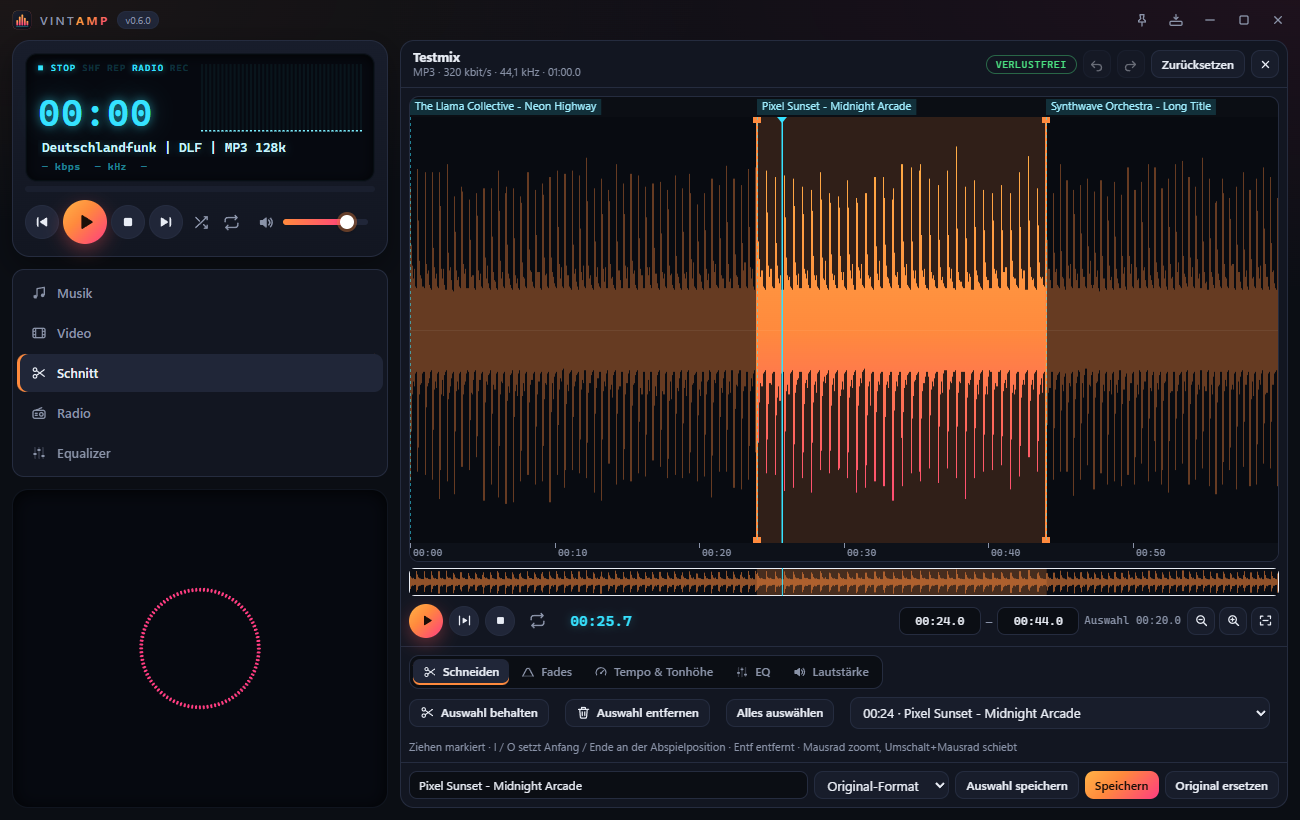
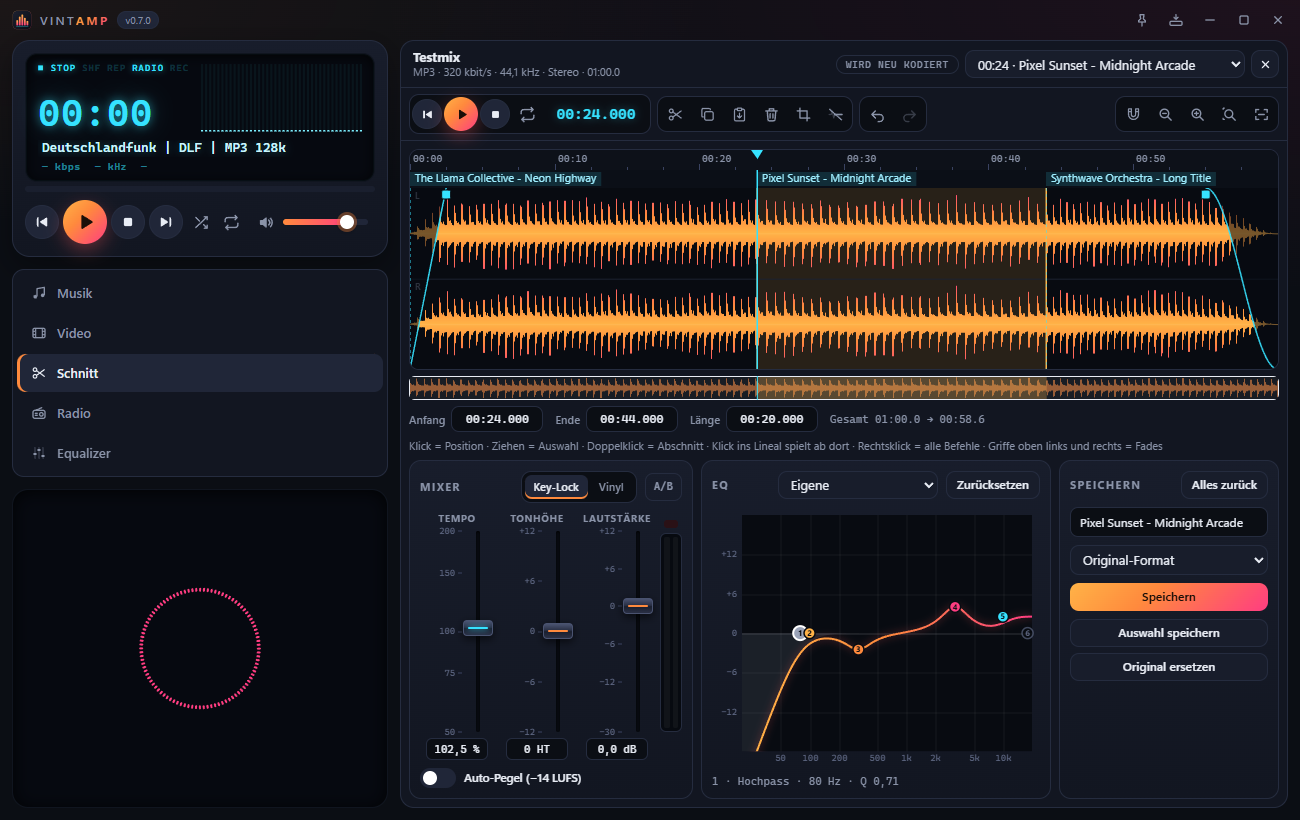
Docs: Cutter als Audio-Editor mit Mixer und grafischem EQ (v0.7.0)

Changed region(s): [[0.3077, 0.061, 0.9846, 0.9756]]

diff --git a/README.md b/README.md
@@ -38,9 +38,9 @@ Mini-Modus – im modernen dunklen Design. Auf Deutsch und Englisch.
 
 <p><img src="docs/video-vollbild.png" alt="Vintamp – Video im Vollbild mit eingeblendeter Bedienleiste" width="790"></p>
 
-**Audio-Cutter** – Rechtsklick auf eine Audiodatei → „Schneiden …“: Wellenform, Titel aus Radio-Aufnahmen als Marken, verlustfrei speichern:
+**Audio-Cutter** – Rechtsklick auf eine Audiodatei → „Schneiden …“: bedient sich wie ein Audio-Editor, mit Mixer und grafischem EQ:
 
-<p><img src="docs/cutter.png" alt="Vintamp – Audio-Cutter mit Wellenform, Auswahl und Titelmarken" width="790"></p>
+<p><img src="docs/cutter.png" alt="Vintamp – Audio-Cutter mit Stereo-Wellenform, Fades, Mixer und grafischem EQ" width="790"></p>
 
 **MIDI mit Spur-Ansicht** – jede Spur mit Instrument und Noten, einzeln stumm oder solo:
 
@@ -103,12 +103,19 @@ Mini-Modus – im modernen dunklen Design. Auf Deutsch und Englisch.
 
 **Audio-Cutter**
 - Rechtsklick auf eine Audiodatei (Musikliste oder Aufnahme) → „Schneiden …“ öffnet den Reiter „Schnitt“
-- Große Wellenform mit Zoom und Übersicht; Bereich mit der Maus markieren, Anfang und Ende auch auf die
-  Zehntelsekunde eintippen (oder I / O an der Abspielposition)
-- Auswahl behalten (trimmen) oder herausschneiden – beliebig oft, mit Rückgängig und Wiederholen
-- Ein- und Ausblenden, Tempo 0,5–2× ohne Mickymaus-Stimme, Tonhöhe ±12 Halbtöne ohne Tempoänderung,
-  10-Band-EQ mit Voreinstellungen, Lautstärke und „alles gleich laut“ (−14 LUFS)
-- Alles vorhören, die Auswahl auch in Schleife
+- Bedienung wie in einem Audio-Editor: Klick setzt die Position, Ziehen wählt aus, Doppelklick wählt den
+  Abschnitt, Klick ins Lineal spielt ab dort; Auswahl rastet an Marken und Schnittstellen ein (Magnet)
+- Ausschneiden, Kopieren, Einfügen, Löschen, Zuschneiden, Stille – mit Strg+X/C/V, Entf, Strg+T, Strg+L
+  oder per Rechtsklick; beliebig oft rückgängig
+- Stereo-Wellenform mit Zoom, Übersicht und Lineal; Anfang, Ende und Länge auf die Millisekunde eintippen
+- **Fades mit der Maus:** Griffe oben links und rechts ziehen, Kurvenform (linear, logarithmisch,
+  exponentiell, S-Kurve) per Rechtsklick
+- **Mixer:** Fader für Tempo, Tonhöhe und Lautstärke mit Pegelanzeige. „Key-Lock“ ändert Tempo und Tonhöhe
+  getrennt mit Rubber Band R3 (Studio-Algorithmus), „Vinyl“ koppelt beide wie ein Plattenspieler –
+  ganz ohne Artefakte. A/B-Taste zum Vergleich mit dem Original, Auto-Pegel (−14 LUFS)
+- **Grafischer EQ:** parametrisch mit Hoch- und Tiefpass, Kuhschwänzen und Glocken – Punkte ziehen,
+  Mausrad für die Güte; Voreinstellungen wie „Rumpeln weg“ oder „Stimme klarer“
+- Alles hört man sofort beim Vorhören, die Auswahl auch in Schleife
 - Speichern als neue Datei oder anstelle des Originals (das alte wandert in den Papierkorb) – MP3, FLAC, WAV, Ogg;
   Tags und Cover werden übernommen
 - **Verlustfrei:** Nur geschnittene MP3/AAC werden rahmengenau kopiert – keine Qualitätsverluste,

diff --git a/README.en.md b/README.en.md
@@ -40,9 +40,9 @@ and a mini mode – in a modern dark design. In English and German.
 
 <p><img src="docs/video-vollbild.png" alt="Vintamp – video in full screen with the control bar shown" width="790"></p>
 
-**Audio cutter** – right-click an audio file → “Cut …”: waveform, tracks of radio recordings as markers, lossless saving:
+**Audio cutter** – right-click an audio file → “Cut …”: works like an audio editor, with a mixer and a graphic EQ:
 
-<p><img src="docs/cutter.png" alt="Vintamp – audio cutter with waveform, selection and track markers" width="790"></p>
+<p><img src="docs/cutter.png" alt="Vintamp – audio cutter with stereo waveform, fades, mixer and graphic EQ" width="790"></p>
 
 **MIDI with a track view** – every track with its instrument and notes, mute or solo each one:
 
@@ -105,12 +105,19 @@ and a mini mode – in a modern dark design. In English and German.
 
 **Audio cutter**
 - Right-click an audio file (music list or recording) → “Cut …” opens the “Cut” tab
-- Large waveform with zoom and overview; select a range with the mouse, or type start and end
-  to a tenth of a second (or I / O at the play position)
-- Keep the selection (trim) or cut it out – as often as you like, with undo and redo
-- Fade in and out, tempo 0.5–2× without chipmunk voices, pitch ±12 semitones without changing the tempo,
-  10-band EQ with presets, volume and “everything equally loud” (−14 LUFS)
-- Preview everything, loop the selection
+- Works like an audio editor: click sets the position, drag selects, double-click selects the section,
+  click the ruler to play from there; the selection snaps to markers and cuts
+- Cut, copy, paste, delete, trim, silence – with Ctrl+X/C/V, Del, Ctrl+T, Ctrl+L or by right-click;
+  unlimited undo
+- Stereo waveform with zoom, overview and ruler; type start, end and length to the millisecond
+- **Fades with the mouse:** drag the handles top left and right, pick the curve (linear, logarithmic,
+  exponential, S-curve) by right-click
+- **Mixer:** faders for tempo, pitch and volume with a level meter. “Key lock” changes tempo and pitch
+  separately with Rubber Band R3 (studio algorithm), “Vinyl” links both like a turntable – free of
+  any artifacts. A/B button to compare with the original, auto level (−14 LUFS)
+- **Graphic EQ:** parametric with high-pass and low-pass, shelves and bells – drag the points, mouse wheel
+  for Q; presets like “Remove rumble” or “Clearer voice”
+- You hear everything right away in the preview, the selection also in a loop
 - Save as a new file or in place of the original (the old one goes to the Recycle Bin) – MP3, FLAC, WAV, Ogg;
   tags and cover are kept
 - **Lossless:** MP3/AAC that are only cut get copied frame by frame – no quality loss,
